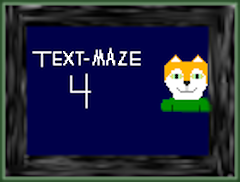
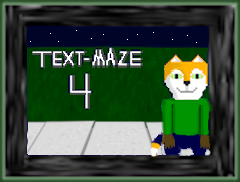
add backgrounds to varoius screens, rework title image.

diff --git a/maze-select.py b/maze-select.py
@@ -27,7 +27,7 @@ for flx in mainlist:
 
 #load titlescreen image.
 titlescreen=pygame.image.load(os.path.join('TILE', 'titlescreen.png'))
-
+titlebg=pygame.image.load(os.path.join('TILE', 'menu-bg.png'))
 
 #init the mixer and start the music
 pygame.mixer.init()
@@ -47,7 +47,9 @@ screensurf.fill((100, 120, 100))
 titlescreenbox = titlescreen.get_rect()
 titlescreenbox.centerx = screensurf.get_rect().centerx
 titlescreenbox.centery = ((screensurf.get_rect().centery) - 90)
+screensurf.blit(titlebg, (0, 0))
 screensurf.blit(titlescreen, titlescreenbox)
+
 
 
 pygame.display.set_caption("Text-maze 4 menu", "Text-maze 4")
@@ -61,6 +63,7 @@ while menusel!="quit":
 		print ("Maze execution complete, returning to menu.")
 		pygame.display.set_caption("Text-maze 4 menu", "Text-maze 4 menu")
 		screensurf.fill((100, 120, 100))
+		screensurf.blit(titlebg, (0, 0))
 		screensurf.blit(titlescreen, titlescreenbox)
 		ixreturn=0
 	menucnt=1

diff --git a/Text-maze-4.py b/Text-maze-4.py
@@ -60,6 +60,7 @@ screensurf=pygame.display.set_mode((240, 370))
 pygame.display.set_caption("Text-maze 4", "Text-maze 4")
 
 #load tiles
+gamebg=pygame.image.load(os.path.join('TILE', 'game-bg.png'))
 tilewall=pygame.image.load(os.path.join('TILE', 'wall.png'))
 tileplayer=pygame.image.load(os.path.join('TILE', 'player.png'))
 tileplayerB=pygame.image.load(os.path.join('TILE', 'playerB.png'))
@@ -290,6 +291,7 @@ while gameend==('0'):
 	#	print ("F3:" + FORWARD3 + " L3:" + LEFTWARD3 + " R3:" + RIGHTWARD3)
 	# 3 stage maze drawing function.
 	screensurf.fill((100, 120, 100))
+	screensurf.blit(gamebg, (0, 0))
 	tilegriddraw()
 	if cantmoveflg==1:
 		drawheadertext(CANTMOVE, 1)

diff --git a/about.py b/about.py
@@ -13,6 +13,9 @@ pygame.font.init()
 
 screensurf=pygame.display.set_mode((400, 260))
 screensurf.fill((100, 120, 100))
+aboutbg=pygame.image.load(os.path.join('TILE', 'about-bg.png'))
+screensurf.blit(aboutbg, (0, 0))
+
 pygame.display.set_caption("Text-maze 4 about", "Text-maze 4 about")
 simplefont = pygame.font.SysFont(None, 16)
 abt = open('live-about.txt')
